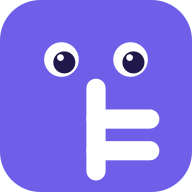
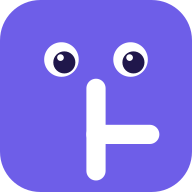
Give Citey a cute-but-meaningful default shape
Default resting state is now turnstile (⊢) instead of the more obscure
double-arm ⊩. It's the simplest glyph in the set (one stem, one arm)
and the logic symbol for "entails / follows from" — a fitting resting
face for a mascot named after citing. Retires the now-unreachable
"voice" state and regenerates the favicon/icon set to match.

Changed region(s): [[0.5312, 0.5625, 0.8438, 0.8438], [0.4375, 0.6875, 0.4688, 0.7188]]

diff --git a/app/components/citey.tsx b/app/components/citey.tsx
@@ -12,22 +12,23 @@
 import { useEffect, useRef, useState } from "react";
 import styles from "./citey.module.scss";
 
-export type CiteyStateName =
-  "voice" | "turnstile" | "entails" | "asserted" | "context";
+export type CiteyStateName = "turnstile" | "entails" | "asserted" | "context";
 
 const CITEY_STATES: Record<
   CiteyStateName,
   { glyph: string; color: string; eyes: [string, string] }
 > = {
-  voice: { glyph: "⊩", color: "#5A6472", eyes: ["r0c0", "r0c1"] }, // ⊩ talking, neutral
-  turnstile: { glyph: "⊢", color: "#7C74DE", eyes: ["r1c0", "r1c1"] }, // ⊢ reasoning / code
+  // ⊢ "entails / follows from" — the default, resting shape. It's the
+  // simplest glyph in the set (one stem, one arm) and the most fitting one
+  // for a mascot named after citing: it's the logic symbol for "this is
+  // backed by that."
+  turnstile: { glyph: "⊢", color: "#7C74DE", eyes: ["r1c0", "r1c1"] },
   entails: { glyph: "⊨", color: "#1F9E76", eyes: ["r2c6", "r2c7"] }, // ⊨ a strong claim
   asserted: { glyph: "⊢", color: "#2E8B86", eyes: ["r0c6", "r0c7"] }, // a list / structure
   context: { glyph: "⊪", color: "#4D7EA8", eyes: ["r0c2", "r0c3"] }, // ⊪ a question back
 };
 
 const BODY_PATHS: Record<string, string> = {
-  "⊩": "M48 40 L48 152 M48 80 L118 80 M48 116 L118 116",
   "⊢": "M48 40 L48 152 M48 96 L118 96",
   "⊨": "M40 40 L40 152 M64 40 L64 152 M64 96 L122 96",
   "⊪": "M34 40 L34 152 M56 40 L56 152 M78 40 L78 152 M78 96 L122 96",
@@ -45,7 +46,7 @@ function pickState(text: string): CiteyStateName {
     /\b(always|never|must|proven|definitely)\b/i.test(tail)
   )
     return "entails";
-  return "voice";
+  return "turnstile";
 }
 
 const EYE_BASE = `${process.env.NEXT_PUBLIC_BASE_PATH ?? ""}/citey-eyes/`;
@@ -55,7 +56,7 @@ const EYE_BASE = `${process.env.NEXT_PUBLIC_BASE_PATH ?? ""}/citey-eyes/`;
 // change reads as a deliberate morph instead of a flicker.
 export function CiteySprite(props: { text: string; size?: number }) {
   const size = props.size ?? 48;
-  const [state, setState] = useState<CiteyStateName>("voice");
+  const [state, setState] = useState<CiteyStateName>("turnstile");
   const lastSample = useRef(0);
 
   useEffect(() => {
